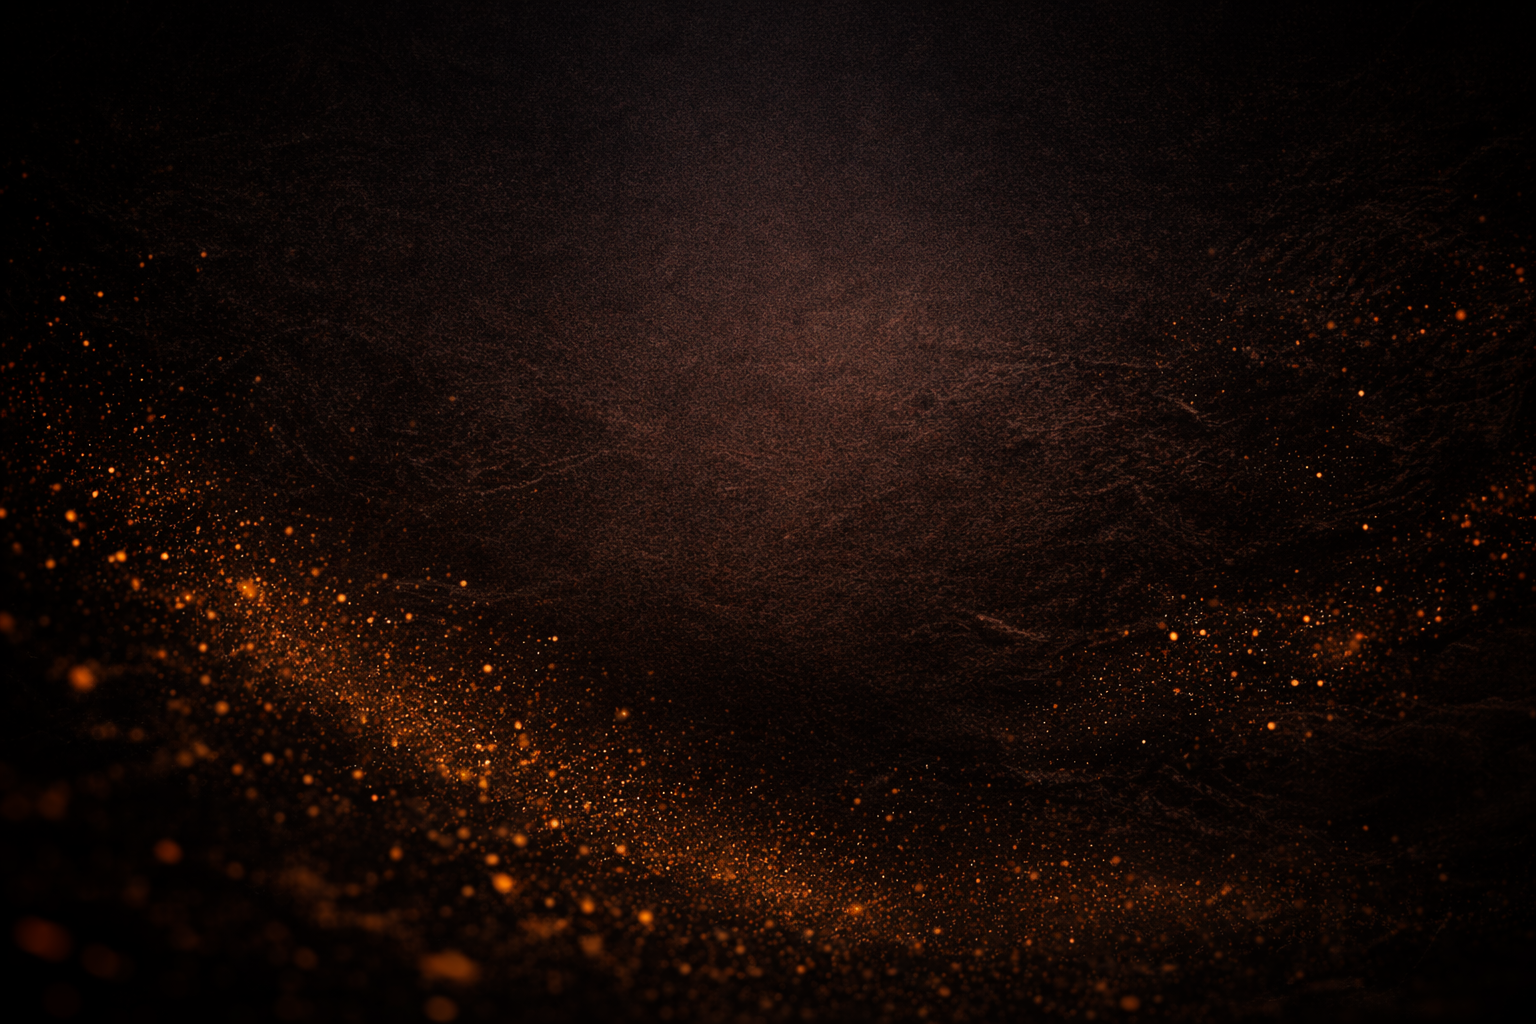
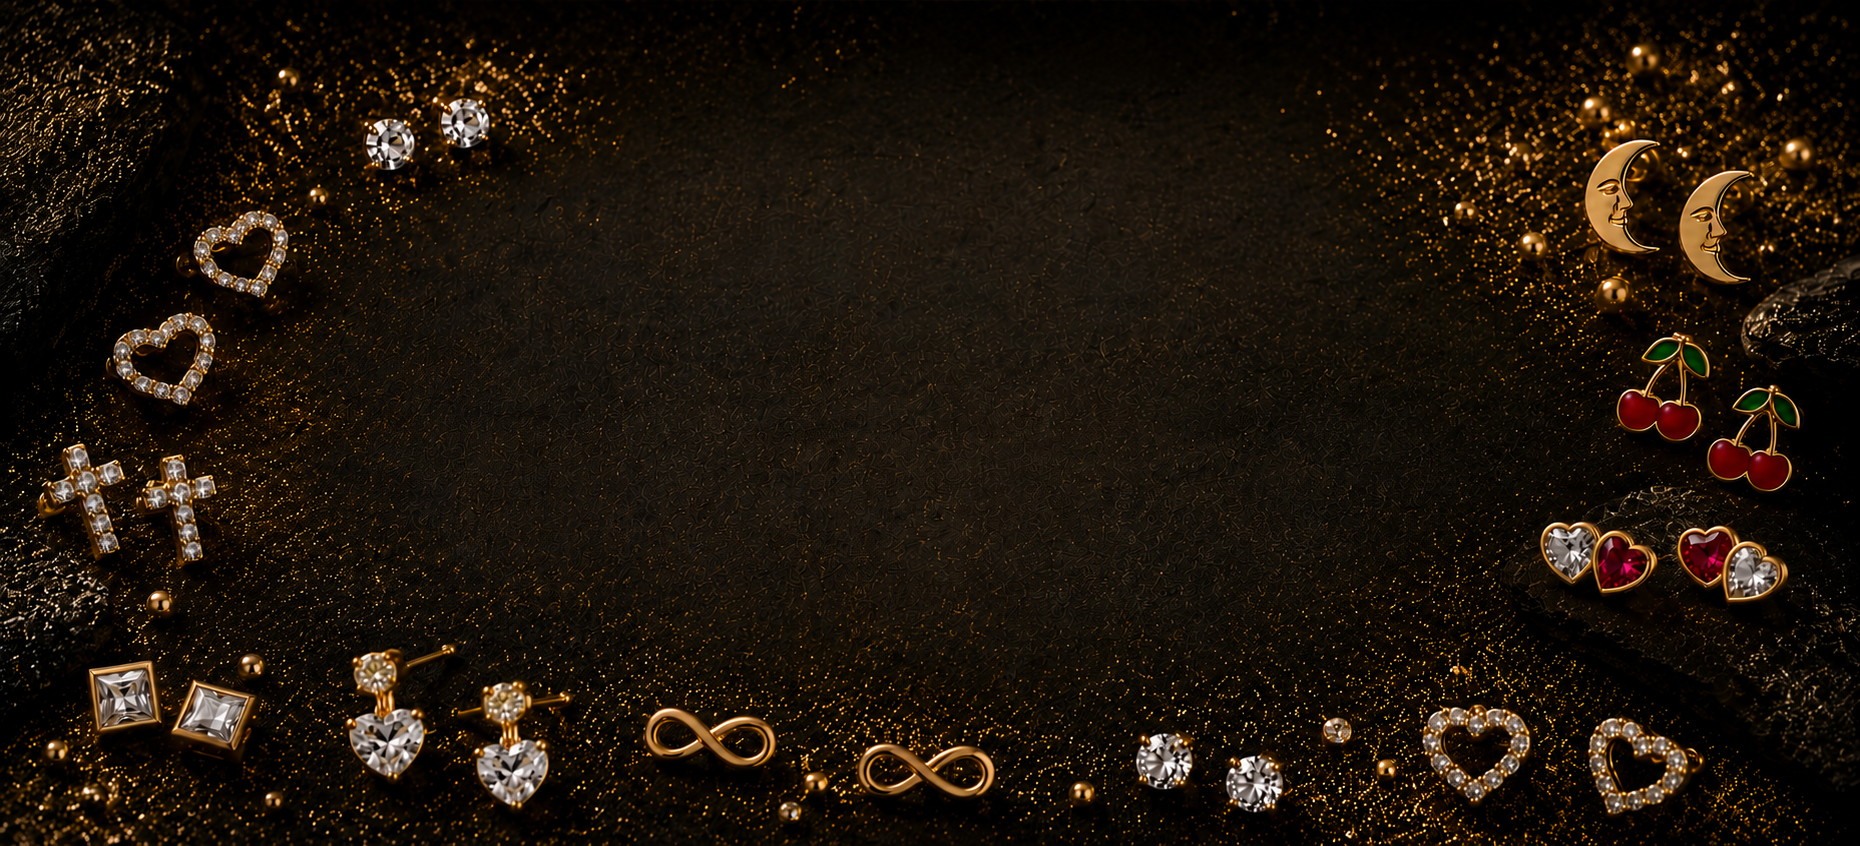
new hero bg

diff --git a/static/css/styles/base.css b/static/css/styles/base.css
@@ -206,7 +206,7 @@ main {
       background-image:
       radial-gradient(120% 92% at 50% 4%, rgb(var(--gold-rgb) / 0.16), transparent 58%),
       radial-gradient(100% 66% at 50% 96%, rgb(var(--gold-rgb) / 0.13), transparent 74%),
-      linear-gradient(180deg, rgba(8, 8, 8, 0.56) 0%, rgba(13, 13, 13, 0.62) 100%),
+      linear-gradient(180deg, rgba(8, 8, 8, 0.40) 0%, rgba(13, 13, 13, 0.48) 100%),
         url("/static/assets/hero_bg.png");
         background-size: auto, auto, auto, cover;
         background-position: center, center, center, center;
@@ -234,7 +234,7 @@ main {
     right: 0;
     bottom: 0;
     height: clamp(62px, 9vw, 108px);
-    background: linear-gradient(180deg, rgba(13, 13, 13, 0) 0%, rgba(13, 13, 13, 0.62) 55%, #0d0d0d 100%);
+    background: linear-gradient(180deg, rgba(13, 13, 13, 0) 0%, rgba(13, 13, 13, 0.46) 55%, #0d0d0d 100%);
     pointer-events: none;
     z-index: 2;
   }
@@ -408,7 +408,7 @@ main {
 
     .hero::after {
       height: clamp(46px, 9vw, 68px);
-      background: linear-gradient(180deg, rgba(13, 13, 13, 0) 0%, rgba(13, 13, 13, 0.56) 50%, #0d0d0d 100%);
+      background: linear-gradient(180deg, rgba(13, 13, 13, 0) 0%, rgba(13, 13, 13, 0.42) 50%, #0d0d0d 100%);
     }
 
     header.hero+section.py-5 {

diff --git a/domains/emailing.py b/domains/emailing.py
@@ -35,7 +35,7 @@ ORDER_DB_PATH = ORDER_LOG_DIR / "orders.db"
 ORDER_EVENT_LOG_DIR = ORDER_LOG_DIR / ".logs"
 _LEGACY_ORDER_CSV_DIR = ORDER_LOG_DIR / "orders_csv"
 ORDER_CSV_DIR = _LEGACY_ORDER_CSV_DIR if _LEGACY_ORDER_CSV_DIR.exists() else ORDER_LOG_DIR / "order_csv"
-EMAIL_LOGO_IMAGE_PATH = BASE_DIR / "static" / "assets" / "ce_logo_gold.png"
+EMAIL_LOGO_IMAGE_PATH = BASE_DIR / "static" / "assets" / "ce_logo_full_gold.png"
 EMAIL_SIGNATURE_IMAGE_PATH = BASE_DIR / "static" / "assets" / "ce_email_signature.jpg"
 _CURRENT_LOG_PATH: Path | None = None
 

diff --git a/tests/test_emailing.py b/tests/test_emailing.py
@@ -256,6 +256,6 @@ class EmailingTests(unittest.TestCase):
         self.assertIn(b"multipart/related", mime_bytes)
         self.assertIn(b"Content-ID:", mime_bytes)
         self.assertIn(b"Content-Disposition: inline", mime_bytes)
-        self.assertIn(b"ce_logo_gold.png", mime_bytes)
+        self.assertIn(b"ce_logo_full_gold.png", mime_bytes)
         self.assertIn(b"ce_email_signature.jpg", mime_bytes)
         self.assertIn(b"cid:", mime_bytes)
